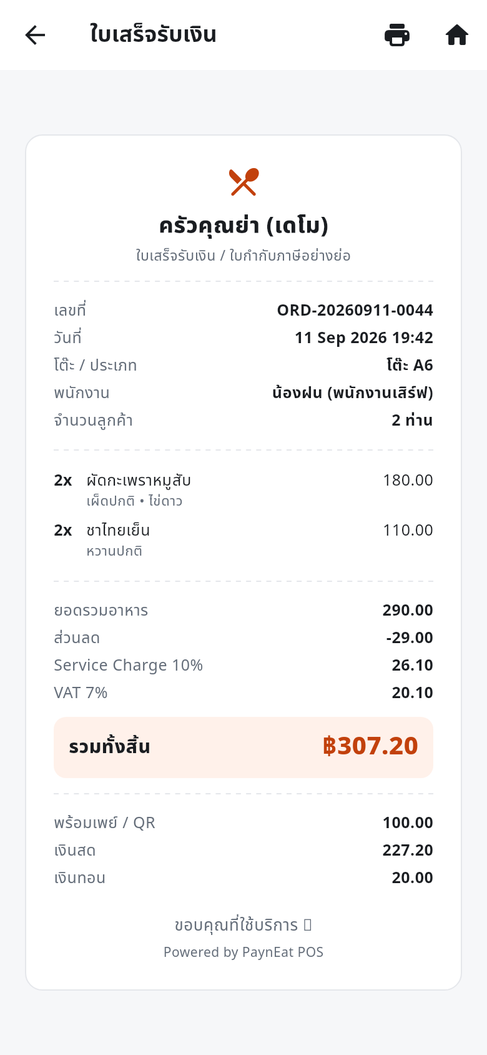
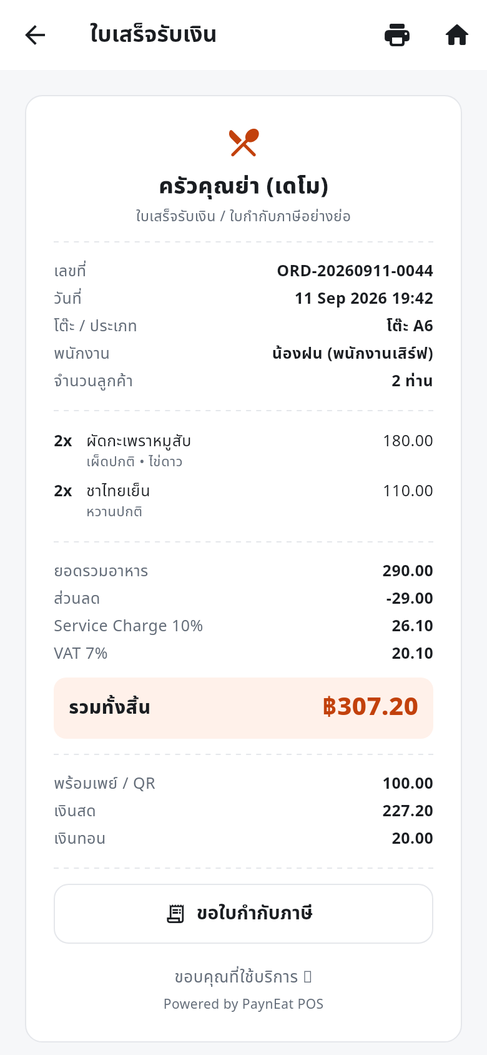
fix(a11y): แก้ 4 จุดที่กฎ lint จับได้จากฟีเจอร์ใบกำกับภาษี + อัปเดตภาพที่ค้าง
ไม่เกี่ยวกับการ bump dependency — เจอตอนรันเช็คก่อน push แล้วพบว่า main แดงอยู่

ฟีเจอร์ใบกำกับภาษี (ticket 07) ที่เพิ่ง merge เข้ามาติดกฎ custom_lint 4 จุด
แปลว่า CI job ฝั่ง Flutter บน main แดงมาตั้งแต่ commit นั้น:

- demo_store_tax_invoices.dart เรียก DateTime.now() ตรง ๆ ตอนออกเลขที่ใบกำกับภาษี
  (เลขที่อิงปี พ.ศ. ถ้าตรึงเวลาไม่ได้ เทสต์และภาพหน้าจอจะดิ้นตามวันที่จริง)
- tax_invoice_document_dialog.dart กับ tax_invoice_request_dialog.dart ใช้สีแดงสด
  เป็นสีตัวหนังสือรวม 3 จุด ซึ่งคอนทราสต์ไม่ถึงเกณฑ์ (4.02:1 บนพื้นที่เข้มสุดที่ใช้จริง)
  และไม่เข้มขึ้นตามโหมดคอนทราสต์สูงเพราะสีสดเป็น const

แก้เป็น AppClock.now() และ dangerInk ตามที่กฎแนะนำ

อีกเรื่องที่เจอจากงานเดียวกัน: ภาพหน้าจอ 2 ภาพใน docs/screenshots ค้างไม่ตรงกับ
โค้ดตั้งแต่ ticket 07 merge เข้ามา (หน้าใบเสร็จและหน้าตั้งค่ามี UI ใบกำกับภาษี
เพิ่มเข้ามาแต่ยังไม่ได้ถ่ายใหม่) ยืนยันแล้วว่าไม่ได้เกิดจากการแก้ในคอมมิตนี้ —
ลองถ่ายใหม่บน main สะอาดโดยไม่มีการแก้ใด ๆ ก็ได้ผลต่างเหมือนกันทั้งสองภาพ

นี่คือครั้งแรกที่ภาพซึ่งถ่ายซ้ำได้ผลเหมือนเดิมทุกไบต์ทำหน้าที่เป็นตัวตรวจจับจริง ๆ
ถ้าภาพยังดิ้นตามนาฬิกาอยู่ จะแยกไม่ออกเลยว่าอันไหนคือ UI ที่เปลี่ยนจริง

ตรวจแล้ว: flutter analyze, custom_lint 0 issues, flutter test 257 ผ่าน, dart format
ไม่ได้แตะ pubspec.lock (flutter pub get อยากอัปเดต transitive แต่ไม่เกี่ยวกับงานนี้)

Claude-Session: https://claude.ai/code/session_01KvAY1zNxnJt1ZxxB3TR6XZ

diff --git a/app/lib/features/payment/presentation/widgets/tax_invoice_document_dialog.dart b/app/lib/features/payment/presentation/widgets/tax_invoice_document_dialog.dart
@@ -56,8 +56,8 @@ class TaxInvoiceDocumentDialog extends StatelessWidget {
                     children: [
                       Text(
                         'tax_invoice_voided_badge'.tr,
-                        style: const TextStyle(
-                          color: AppColors.danger,
+                        style: TextStyle(
+                          color: AppColors.dangerInk,
                           fontWeight: FontWeight.w800,
                         ),
                       ),
@@ -191,7 +191,7 @@ class TaxInvoiceDocumentDialog extends StatelessWidget {
             onPressed: () => _promptVoid(context),
             child: Text(
               'tax_invoice_void_button'.tr,
-              style: const TextStyle(color: AppColors.danger),
+              style: TextStyle(color: AppColors.dangerInk),
             ),
           ),
         FilledButton(

diff --git a/app/lib/core/demo/demo_store_tax_invoices.dart b/app/lib/core/demo/demo_store_tax_invoices.dart
@@ -26,7 +26,7 @@ extension DemoStoreTaxInvoices on DemoStore {
   /// เลขที่ใบกำกับภาษีรูปแบบ INV<ปีพ.ศ. 2 หลัก>-<เลขรัน 6 หลัก> รีเซ็ตทุกปี พ.ศ.
   /// (mirror ของ backend: tax-invoice.service.js#nextRunningNumber)
   String _nextTaxInvoiceRunningNumber() {
-    final buddhistYear = DateTime.now().year + 543;
+    final buddhistYear = AppClock.now().year + 543;
     final yy = buddhistYear.toString().substring(
       buddhistYear.toString().length - 2,
     );

diff --git a/app/lib/features/payment/presentation/widgets/tax_invoice_request_dialog.dart b/app/lib/features/payment/presentation/widgets/tax_invoice_request_dialog.dart
@@ -124,7 +124,7 @@ class _TaxInvoiceRequestDialogState extends State<TaxInvoiceRequestDialog> {
             ],
             if (_error != null) ...[
               const SizedBox(height: 8),
-              Text(_error!, style: const TextStyle(color: AppColors.danger)),
+              Text(_error!, style: TextStyle(color: AppColors.dangerInk)),
             ],
           ],
         ),
